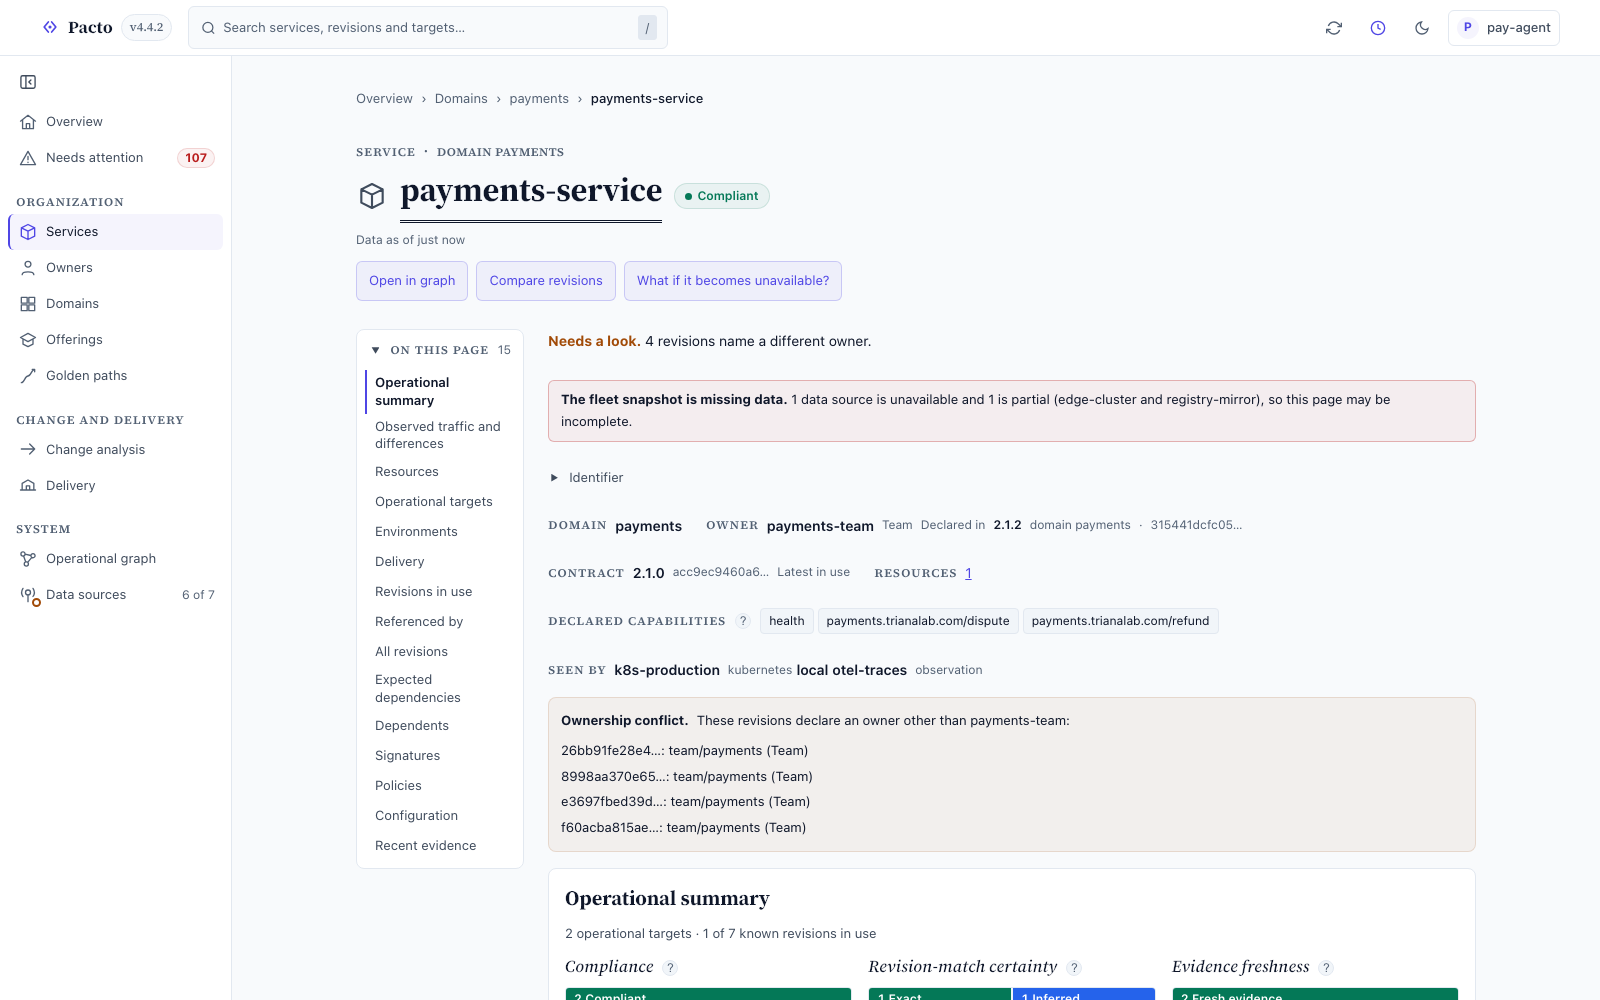
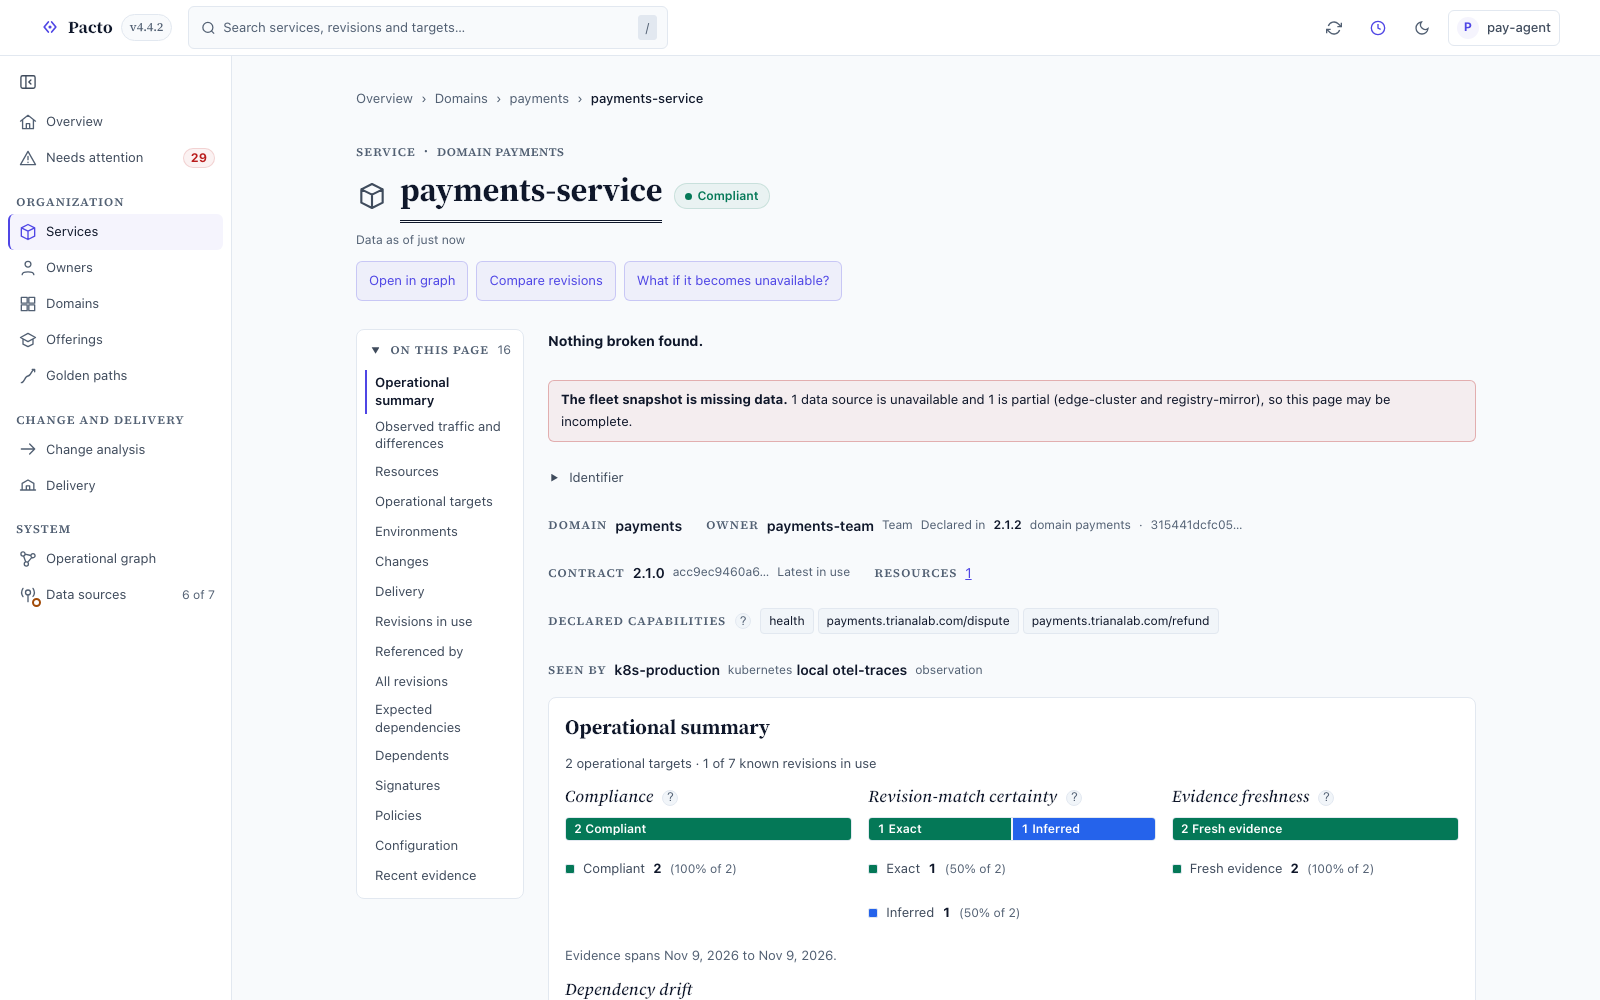
docs(dashboard): capture the Changes section and as-of history

diff --git a/pkg/dashboard/frontend/e2e-screenshots/capture.spec.ts b/pkg/dashboard/frontend/e2e-screenshots/capture.spec.ts
@@ -79,6 +79,25 @@ const SHOTS: { name: string; open: (page: Page) => Promise<void>; clip?: { x: nu
     open: async (p) => { await go(p, '/#/fleet/services/catalog-service', 'catalog-service'); await expect(p.locator('#sec-resources')).toBeVisible(); },
     element: '#sec-resources',
   },
+  // The story payments service's Changes section alone, with the times its revisions
+  // reached a Stage read from signed delivery records.
+  {
+    name: 'service-changes',
+    open: async (p) => {
+      await go(p, '/#/fleet/services/registry.example%252Fstory%2Fpayments?section=changes', 'payments');
+      await expect(p.locator('#sec-changes [data-testid="service-change-reached"] a').first()).toBeVisible();
+    },
+    element: '#sec-changes',
+  },
+  // The story payments service's Delivery history as of a minute ago: what each of its
+  // Stages ran then, known where a complete signed history holds and partial where not.
+  {
+    name: 'delivery-history-as-of',
+    open: async (p) => {
+      await go(p, '/#/delivery/history?service=payments&domain=registry.example%2Fstory&at=1m', 'History');
+      await expect(p.getByTestId('history-at-row').first()).toBeVisible();
+    },
+  },
 ];
 
 async function finish(page: Page) {
